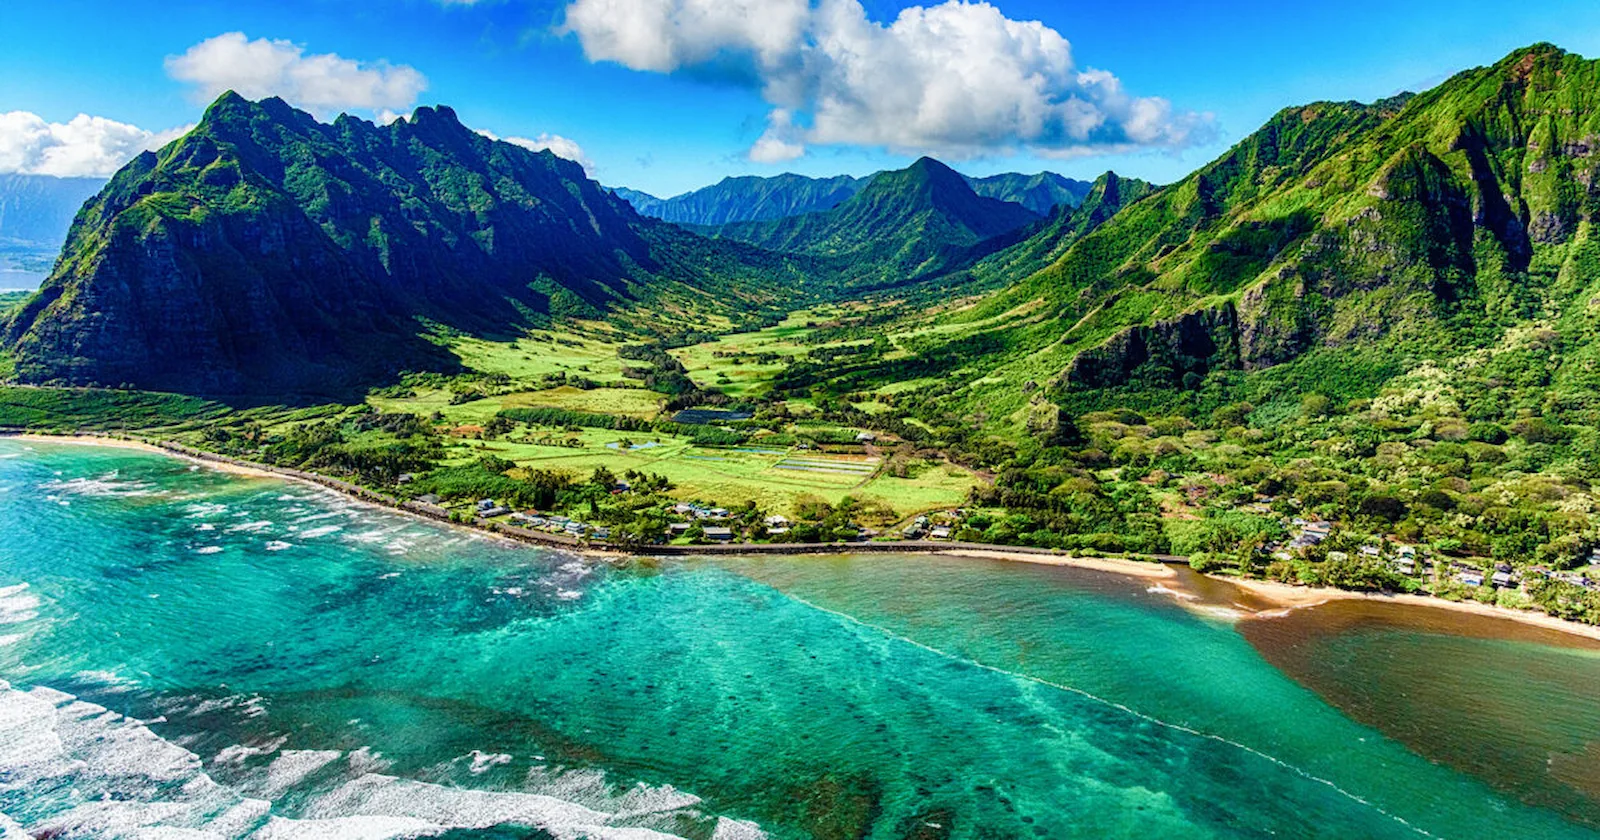
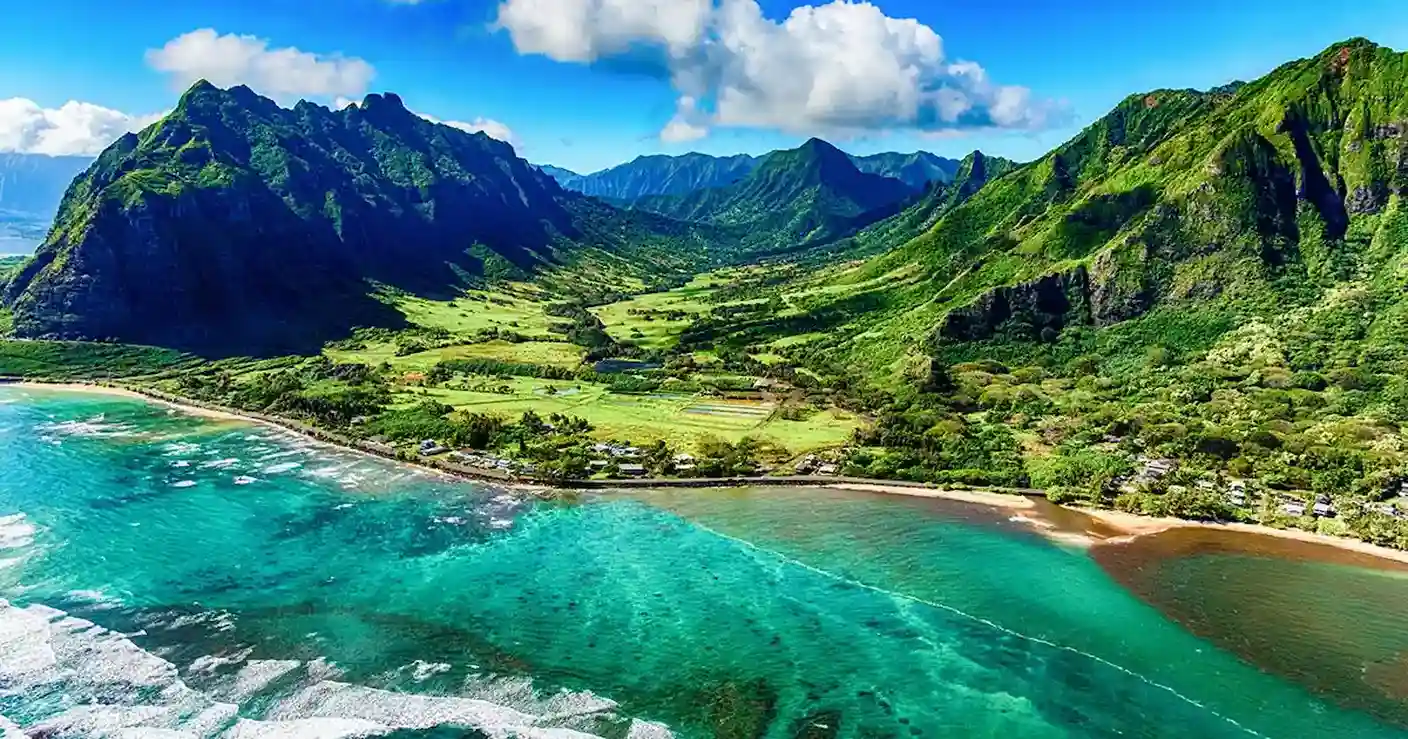
fixed

diff --git a/place.html b/place.html
@@ -3,9 +3,12 @@
 <head>
   <meta charset="UTF-8">
   <meta name="viewport" content="width=device-width, initial-scale=1.0">
+  <meta name="description" content="Explore Hawaii, the Aloha State: stunning beaches, volcanoes, and rich Polynesian culture in this WDD 131 project page.">
+  <meta name="author" content="Olivia Crawford">
   <title>Hawaii – The Aloha State</title>
   <link rel="stylesheet" href="styles/styles.css">
 </head>
+
 <body>
 
   <header>
